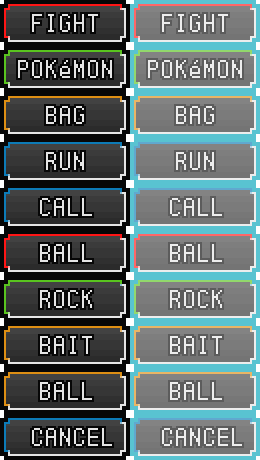
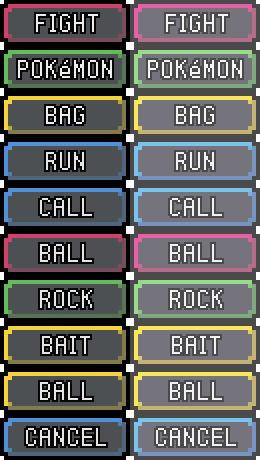
Battle UI Graphics update

diff --git a/Data/Scripts/011_Battle/004_Scene/001_Battle_Scene.rb b/Data/Scripts/011_Battle/004_Scene/001_Battle_Scene.rb
@@ -7,8 +7,8 @@ class Battle::Scene
   USE_ABILITY_SPLASH   = (Settings::MECHANICS_GENERATION >= 5)
   MESSAGE_PAUSE_TIME   = 1.0   # In seconds
   # Text colors
-  MESSAGE_BASE_COLOR   = Color.new(80, 80, 88)
-  MESSAGE_SHADOW_COLOR = Color.new(160, 160, 168)
+  MESSAGE_BASE_COLOR   = Color.new(201,201,201)
+  MESSAGE_SHADOW_COLOR = Color.new(38,38,38)
   # The number of party balls to show in each side's lineup.
   NUM_BALLS            = Settings::MAX_PARTY_SIZE
   # Centre bottom of the player's side base graphic

diff --git a/Data/Scripts/011_Battle/004_Scene/005_Battle_Scene_Menus.rb b/Data/Scripts/011_Battle/004_Scene/005_Battle_Scene_Menus.rb
@@ -12,8 +12,8 @@ class Battle::Scene::MenuBase
 
   # NOTE: Button width is half the width of the graphic containing them all.
   BUTTON_HEIGHT = 46
-  TEXT_BASE_COLOR   = Battle::Scene::MESSAGE_BASE_COLOR
-  TEXT_SHADOW_COLOR = Battle::Scene::MESSAGE_SHADOW_COLOR
+  TEXT_BASE_COLOR   = Color.new(201,201,201)
+  TEXT_SHADOW_COLOR = Color.new(38,38,38)
 
   def initialize(viewport = nil)
     @x          = 0
